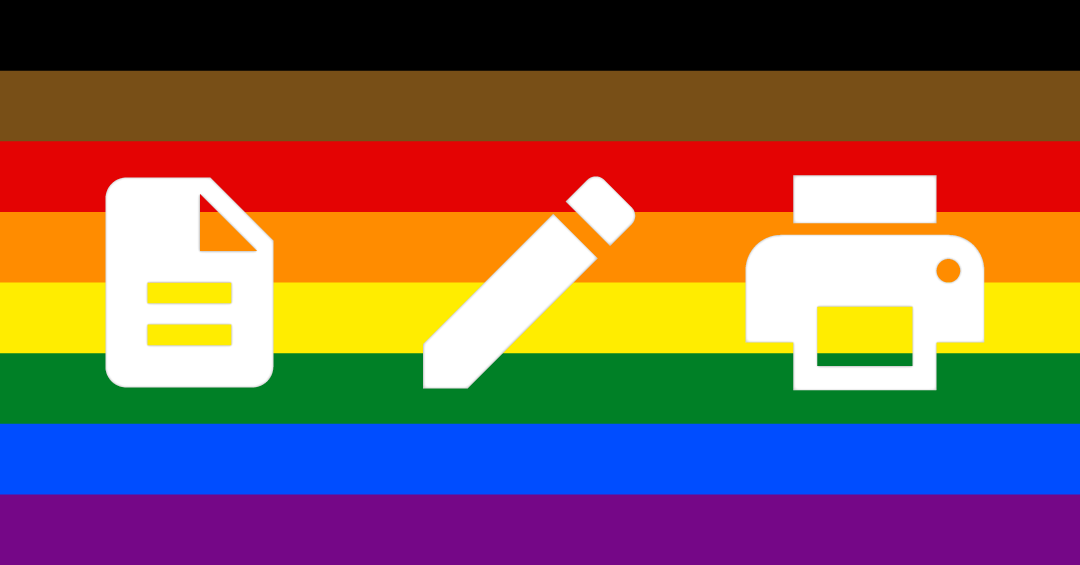
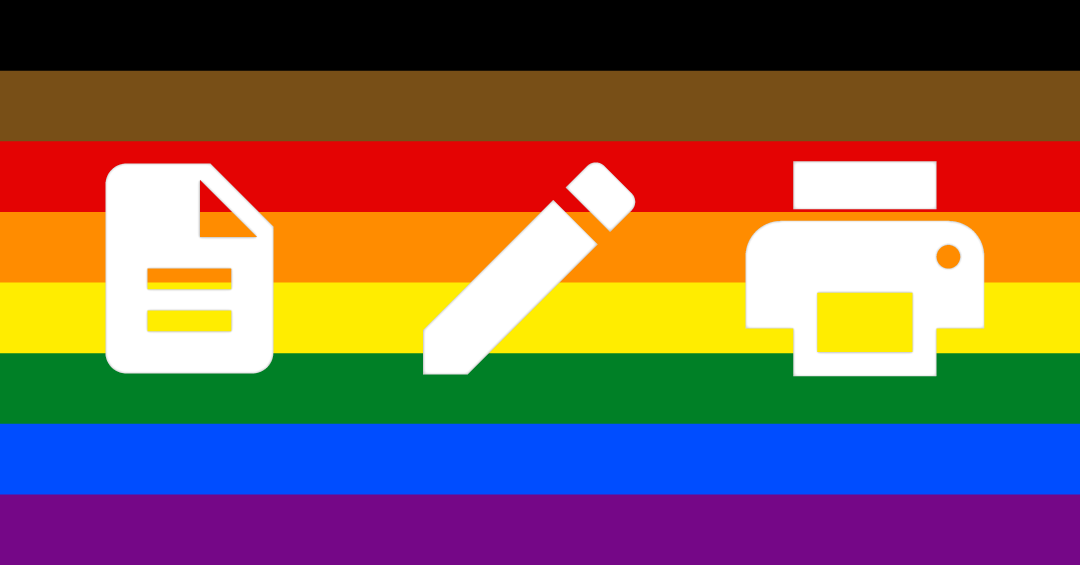
Improve share image positioning

diff --git a/index.html b/index.html
@@ -11,7 +11,7 @@
     <meta name="twitter:site" content="@kittsville"></meta>
     <meta property="og:title" content="UK Deed Poll Generator" />
     <meta property="og:description" content="UK deed poll generator. Grab two friends and change your name." />
-    <meta property="og:image" content="https://deedpoll.lgbt/assets/og-image.png?v=2" />
+    <meta property="og:image" content="https://deedpoll.lgbt/assets/og-image.png?v=3" />
     <meta property="og:image:width" content="1080" />
     <meta property="og:image:height" content="565" />
     <meta property="og:type" content="website" />
